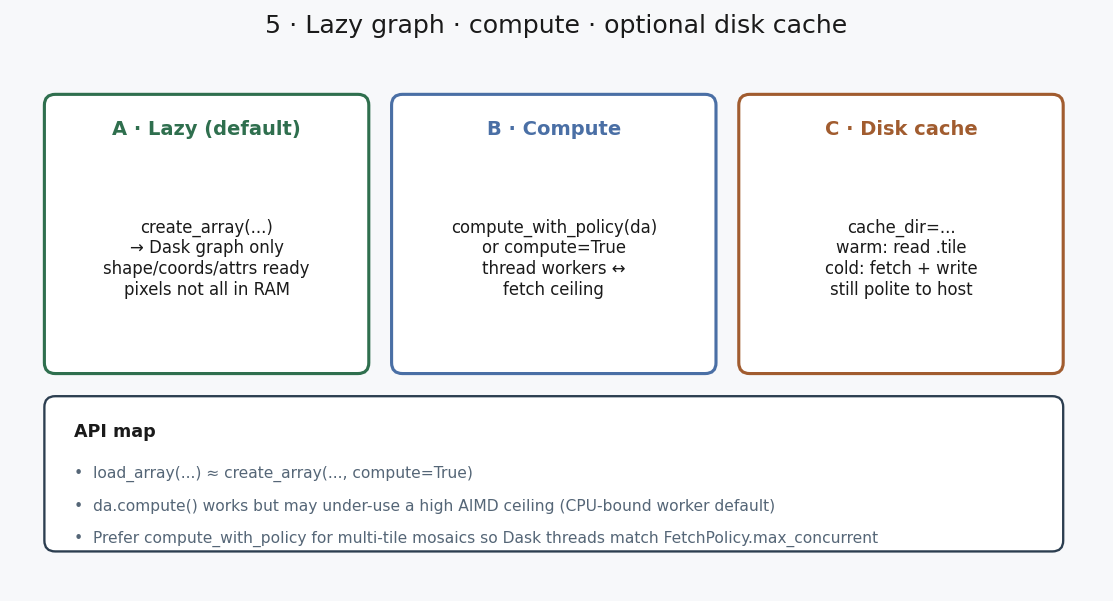
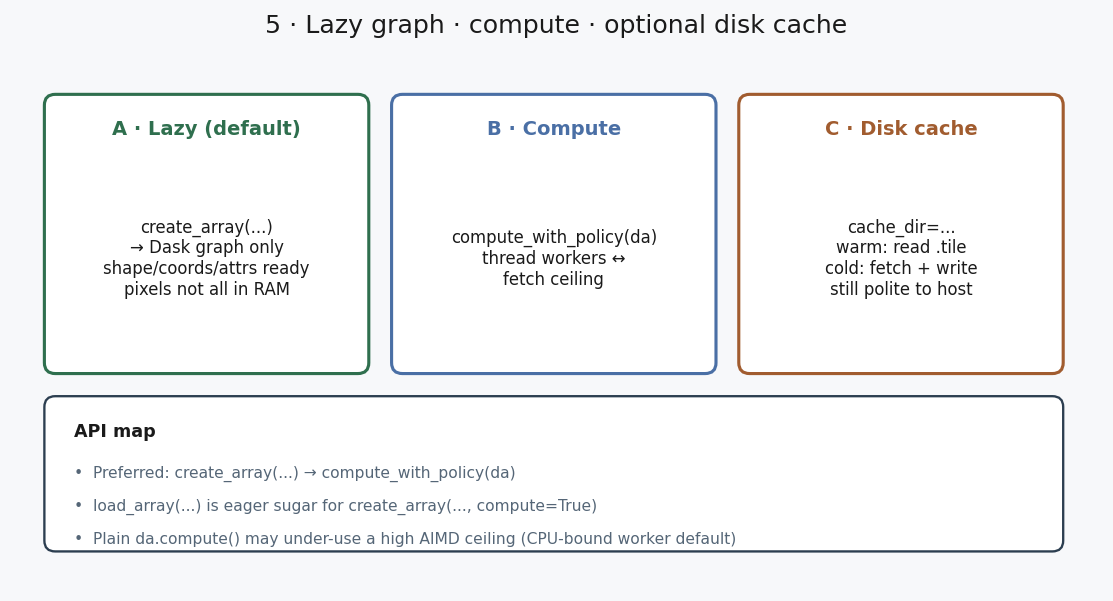
docs: one compute habit + WMTS honesty (#55)
Prefer create_array → compute_with_policy on primary guides and docs.
Document load_array as eager sugar; note WMTS via WMTSConfig (guide TBD).

Changed region(s): [[0.0916, 0.7787, 0.7942, 0.9285], [0.3971, 0.3594, 0.611, 0.5092]]

diff --git a/scripts/generate_docs_artifacts.py b/scripts/generate_docs_artifacts.py
@@ -82,13 +82,13 @@ def generate_osm(out_dir: Path) -> dict[str, Any]:
         config,
         OSM_LONDON_BBOX,
         CRS.EPSG_4326,
-        compute=True,
     )
+    arr = compute_with_policy(da)
     elapsed = time.perf_counter() - start
 
     # OSM raster tiles are often palette PNGs → single-band after decode today.
     fig, ax = plt.subplots(figsize=(5.5, 5.5))
-    da.plot.imshow(ax=ax, cmap="gray", add_colorbar=False)
+    arr.plot.imshow(ax=ax, cmap="gray", add_colorbar=False)
     ax.set_title("OpenStreetMap XYZ — central London")
     ax.set_xlabel("longitude")
     ax.set_ylabel("latitude")
@@ -112,16 +112,16 @@ def generate_osm(out_dir: Path) -> dict[str, Any]:
         "bbox": list(OSM_LONDON_BBOX),
         "crs": "EPSG:4326",
         "zoom": OSM_ZOOM,
-        "shape": list(da.shape),
-        "dims": list(da.dims),
+        "shape": list(arr.shape),
+        "dims": list(arr.dims),
         "elapsed_s": round(elapsed, 3),
-        "mean": float(np.nanmean(da.values)),
+        "mean": float(np.nanmean(arr.values)),
         "figure": png.name,
         "attribution": "© OpenStreetMap contributors",
         "note": "OSM PNGs are often palette mode; decoded mosaic is single-band today",
     }
     _write_json(out_dir / "osm-london.json", stats)
-    print(f"  wrote {png.name} shape={da.shape} in {elapsed:.1f}s")
+    print(f"  wrote {png.name} shape={arr.shape} in {elapsed:.1f}s")
     return stats
 
 
@@ -139,24 +139,25 @@ def generate_gibs(out_dir: Path) -> dict[str, Any]:
         },
     )
     start = time.perf_counter()
-    da = create_array(config, GIBS_BBOX, CRS.EPSG_4326, compute=True)
+    da = create_array(config, GIBS_BBOX, CRS.EPSG_4326)
+    arr = compute_with_policy(da)
     elapsed = time.perf_counter() - start
 
     fig, ax = plt.subplots(figsize=(6.0, 5.0))
-    if da.ndim == 3 and "band" in da.dims and da.sizes["band"] >= 3:
-        rgb = np.clip(np.asarray(da.values[..., :3]) / 255.0, 0, 1)
+    if arr.ndim == 3 and "band" in arr.dims and arr.sizes["band"] >= 3:
+        rgb = np.clip(np.asarray(arr.values[..., :3]) / 255.0, 0, 1)
         ax.imshow(
             rgb,
             extent=[
-                float(da.x.min()),
-                float(da.x.max()),
-                float(da.y.min()),
-                float(da.y.max()),
+                float(arr.x.min()),
+                float(arr.x.max()),
+                float(arr.y.min()),
+                float(arr.y.max()),
             ],
             origin="upper",
         )
     else:
-        da.plot.imshow(ax=ax, add_colorbar=False)
+        arr.plot.imshow(ax=ax, add_colorbar=False)
     ax.set_title("NASA GIBS Blue Marble — mid-Atlantic glance")
     ax.set_xlabel("longitude")
     ax.set_ylabel("latitude")
@@ -180,15 +181,15 @@ def generate_gibs(out_dir: Path) -> dict[str, Any]:
         "bbox": list(GIBS_BBOX),
         "crs": "EPSG:4326",
         "zoom": GIBS_ZOOM,
-        "shape": list(da.shape),
-        "dims": list(da.dims),
+        "shape": list(arr.shape),
+        "dims": list(arr.dims),
         "elapsed_s": round(elapsed, 3),
-        "mean": float(np.nanmean(da.values)),
+        "mean": float(np.nanmean(arr.values)),
         "figure": png.name,
         "template_note": "GIBS path is {z}/{y}/{x} (row before col)",
     }
     _write_json(out_dir / "gibs-bluemarble.json", stats)
-    print(f"  wrote {png.name} shape={da.shape} in {elapsed:.1f}s")
+    print(f"  wrote {png.name} shape={arr.shape} in {elapsed:.1f}s")
     return stats
 
 

diff --git a/scripts/generate_how_it_works_figures.py b/scripts/generate_how_it_works_figures.py
@@ -324,7 +324,7 @@ def stage_lazy_compute_cache() -> None:
         (
             3.5,
             "B · Compute",
-            "compute_with_policy(da)\nor compute=True\nthread workers ↔\nfetch ceiling",
+            "compute_with_policy(da)\nthread workers ↔\nfetch ceiling",
             ACCENT,
         ),
         (
@@ -343,9 +343,9 @@ def stage_lazy_compute_cache() -> None:
     _box(ax, 0.3, 0.35, 9.35, 1.4, fc="#ffffff")
     ax.text(0.55, 1.4, "API map", fontsize=9, color=INK, fontweight="bold")
     lines = [
-        "load_array(...) ≈ create_array(..., compute=True)",
-        "da.compute() works but may under-use a high AIMD ceiling (CPU-bound worker default)",
-        "Prefer compute_with_policy for multi-tile mosaics so Dask threads match FetchPolicy.max_concurrent",
+        "Preferred: create_array(...) → compute_with_policy(da)",
+        "load_array(...) is eager sugar for create_array(..., compute=True)",
+        "Plain da.compute() may under-use a high AIMD ceiling (CPU-bound worker default)",
     ]
     for i, line in enumerate(lines):
         ax.text(0.55, 1.05 - i * 0.3, f"•  {line}", fontsize=8, color=MUTED, va="center")

diff --git a/src/tilearray/array.py b/src/tilearray/array.py
@@ -884,7 +884,12 @@ def create_array(
 
 
 def load_array(*args: Any, compute: bool = True, **kwargs: Any) -> xr.DataArray:
-    """Convenience wrapper around :func:`create_array`."""
+    """Eager sugar for :func:`create_array`.
+
+    Defaults to ``compute=True`` so a small window materialises immediately with
+    fetch-aligned Dask workers. For multi-tile mosaics prefer lazy
+    ``create_array`` (default ``compute=False``) plus :func:`compute_with_policy`.
+    """
 
     return create_array(*args, compute=compute, **kwargs)
 

diff --git a/CHANGELOG.md b/CHANGELOG.md
@@ -20,6 +20,7 @@ and this project adheres to [Semantic Versioning](https://semver.org/spec/v2.0.0
 - WCS GeoTIFF decode now uses ``tifffile`` directly (bytes or path); dropped the ``geotiff`` → ``zarr<2.13`` / ``numcodecs<0.16`` pin cage so clean-env installs no longer need that dependency gymnastics. XYZ-without-GDAL posture unchanged (no hard rasterio/GDAL runtime dep) (#53)
 - Public-boundary failures now raise the typed `TileArrayError` hierarchy instead of bare `ValueError` / `RuntimeError`: bad inputs → `ValidationError`, caps/XML parse → `ParseError`, service detection / missing decoder → `ConfigurationError`, WCS/WMTS capabilities HTTP (`httpx`) → `NetworkError`. **Compat:** callers that catch bare `ValueError` for library validation must switch to `TileArrayError` / the specific subclass (or catch both during transition). Pydantic model field checks (`BoundingBox` coordinates, etc.) still surface via pydantic as before (#72)
 - WCS/WMTS capabilities and DescribeCoverage (plus direct `WCSService.get_coverage`) now use sync **httpx** with one shared UA/timeout policy and inherit config `headers`/`params` — private-server credentials reach plan-time GETs the same way they reach tiles. Drops the runtime `requests` dependency (#57)
+- Docs: one compute habit on primary paths — OSM/GIBS guides, how-it-works, troubleshooting, and API index use `compute_with_policy`; `load_array` documented as eager sugar for `create_array(..., compute=True)`; quickstart WMTS honesty note (`WMTSConfig` supported, host guide TBD / #60) (#55)
 
 ### Added
 

diff --git a/docs/api/index.md b/docs/api/index.md
@@ -17,7 +17,7 @@ Public entry points for building lazy mosaics, configuring services, and handlin
    array.compute_thread_pool_size
 ```
 
-`create_array` builds a lazy Dask-backed `xarray.DataArray`. Prefer {py:func}`~tilearray.compute_with_policy` over plain `.compute()` on multi-tile mosaics so Dask workers match the fetch ceiling. Pass a service **config** (or URL where supported) as the first argument — not only a bare string for every service type.
+`create_array` builds a lazy Dask-backed `xarray.DataArray`. Prefer {py:func}`~tilearray.compute_with_policy` over plain `.compute()` so Dask workers match the fetch ceiling. {py:func}`~tilearray.load_array` is eager sugar (`create_array(..., compute=True)` by default) — useful for tiny windows, not a second primary habit. Pass a service **config** (or URL where supported) as the first argument — not only a bare string for every service type.
 
 `**service_options` on `create_array` / `load_array` is one bag with three key families (**fetch** politeness, **planner** geometry, **identity** / protocol). Concurrency names each have one job (`max_concurrent_requests` host ceiling vs `FetchPolicy.max_concurrent` shared gate vs `call_max_concurrent` per-call vs `compute_with_policy(..., max_concurrent=)` Dask workers). Name map: {doc}`../how-it-works`.
 

diff --git a/docs/how-it-works.md b/docs/how-it-works.md
@@ -124,9 +124,9 @@ Each tile is a Dask delayed block. Blocks are stitched **north-up** into one `xa
 | Path | What happens |
 |------|----------------|
 | `create_array(...)` (default) | **Lazy** Dask graph — coords/attrs ready; pixels not all in RAM. |
-| `create_array(..., compute=True)` / `load_array(...)` | Build then compute immediately. |
+| {py:func}`tilearray.compute_with_policy` | **Preferred** compute path: thread workers aligned to the fetch ceiling. |
+| `load_array(...)` | Eager sugar for `create_array(..., compute=True)` — builds then computes immediately (same fetch-aligned workers). Prefer lazy + `compute_with_policy` on primary paths. |
 | `da.compute()` | Works, but default Dask worker count can under-use a high fetch ceiling. |
-| {py:func}`tilearray.compute_with_policy` | Preferred for multi-tile mosaics: thread workers aligned to the fetch ceiling. |
 | `cache_dir=...` | Optional on-disk tile cache; warm hits skip the network. |
 
 Memory tracks **what you compute** (full mosaic, a reduction, a window) — not automatically the whole AOI. Scale with bbox, chunks, and fetch policy.

diff --git a/docs/quickstart.md b/docs/quickstart.md
@@ -79,6 +79,10 @@ print(img.shape, da.attrs["service_type"])
 
 No WMS fetch preset — stay polite with modest `grid_shape` / concurrency. See {doc}`example-sources` for layer quirks.
 
+## WMTS
+
+WMTS is supported via {py:class}`tilearray.WMTSConfig` (REST or KVP GetTile, same `create_array` → `compute_with_policy` path as WCS/WMS/XYZ). A copy-paste host guide is still TBD — track [issue #60](https://github.com/MatthewJWhittle/tilearray/issues/60). Until then, configure with `WMTSConfig.from_url(...)` and follow the XYZ/WMS recipes above for compute habit and politeness.
+
 ## Private or keyed hosts
 
 Same habit: config → `create_array` → `compute_with_policy`. Pass static credentials on the config with `params=` (query API keys, legacy username/password query params) or `headers=` (Bearer, API-key headers, Basic). Prefer env-backed `params=` over secrets in XYZ URL templates. Details and the WCS/WMTS capabilities caveat: {doc}`troubleshooting`. Keyed OS Maps XYZ: {doc}`example-sources`.

diff --git a/docs/troubleshooting.md b/docs/troubleshooting.md
@@ -39,7 +39,7 @@ Soft-fail (`on_tile_error` / `soft_fail`) is a named plan-time argument, not a `
 |---------|--------------|------------|
 | Empty / invalid coverage | CoverageId ≠ URL path slug | Use the GetCapabilities id (e.g. `UUID__Lidar_Composite_Elevation_DTM_1m`), or `WCSConfig.for_ea_dsp` with the id from {doc}`example-sources` |
 | Many 403s / hard fail mid-mosaic | Burst above the EA ceiling | Keep AIMD ceiling at **10** (the EA preset). Do not raise `max_concurrent_requests` for county-scale cold mosaics |
-| Slow multi-tile mosaic | Dask workers << fetch ceiling | Use `compute_with_policy` (or `create_array(..., compute=True)`) |
+| Slow multi-tile mosaic | Dask workers << fetch ceiling | Use `compute_with_policy` |
 
 ## OpenStreetMap XYZ
 

diff --git a/docs/guides/osm-london.md b/docs/guides/osm-london.md
@@ -11,7 +11,7 @@ OSM raster tiles are often **palette PNGs**, so the mosaic may be single-band (g
 ## Code
 
 ```python
-from tilearray import XYZConfig, create_array
+from tilearray import XYZConfig, compute_with_policy, create_array
 from tilearray.types import CRS, Format
 
 config = XYZConfig.for_openstreetmap(
@@ -21,8 +21,9 @@ config = XYZConfig.for_openstreetmap(
 )
 
 bbox = (-0.005, 51.495, 0.005, 51.505)  # ~central London
-da = create_array(config, bbox, CRS.EPSG_4326, compute=True)
-print(da.shape, da.dims, da.attrs["service_type"])
+da = create_array(config, bbox, CRS.EPSG_4326)
+arr = compute_with_policy(da)
+print(arr.shape, arr.dims, da.attrs["service_type"])
 ```
 
 ## Result

diff --git a/docs/guides/gibs-bluemarble.md b/docs/guides/gibs-bluemarble.md
@@ -5,7 +5,7 @@ Load a small mid-Atlantic window from NASA GIBS as JPEG RGB tiles. Uses `XYZConf
 ## Code
 
 ```python
-from tilearray import XYZConfig, create_array
+from tilearray import XYZConfig, compute_with_policy, create_array
 from tilearray.types import CRS, Format
 
 template = (
@@ -27,8 +27,9 @@ config = XYZConfig.from_url(
 )
 
 bbox = (-40.0, 20.0, -10.0, 45.0)
-da = create_array(config, bbox, CRS.EPSG_4326, compute=True)
-print(da.shape, da.dims)  # expect (y, x, band) for RGB JPEG
+da = create_array(config, bbox, CRS.EPSG_4326)
+arr = compute_with_policy(da)
+print(arr.shape, arr.dims)  # expect (y, x, band) for RGB JPEG
 ```
 
 ## Result

diff --git a/README.md b/README.md
@@ -70,7 +70,7 @@ elevation = compute_with_policy(da)
 print(elevation.shape, float(elevation.mean()))
 ```
 
-The EA Lidar preset caps sustained concurrency at **10** (AIMD ceiling). More hosts, WMS/WMTS recipes, and polite-use notes live in the [docs](https://matthewjwhittle.github.io/tilearray/).
+The EA Lidar preset caps sustained concurrency at **10** (AIMD ceiling). More hosts, WMS recipes, and polite-use notes live in the [docs](https://matthewjwhittle.github.io/tilearray/). WMTS is supported via `WMTSConfig`; a host guide is still TBD.
 
 ## Development
 

diff --git a/docs/guides/ea-lidar.md b/docs/guides/ea-lidar.md
@@ -7,8 +7,7 @@ Uses `WCSConfig.for_ea_dsp` (AIMD under a hard ceiling, pressure circuit breaker
 ## Code
 
 ```python
-from tilearray import compute_with_policy, create_array
-from tilearray.service import WCSConfig
+from tilearray import WCSConfig, compute_with_policy, create_array
 from tilearray.types import CRS, Format
 
 wcs_url = (
